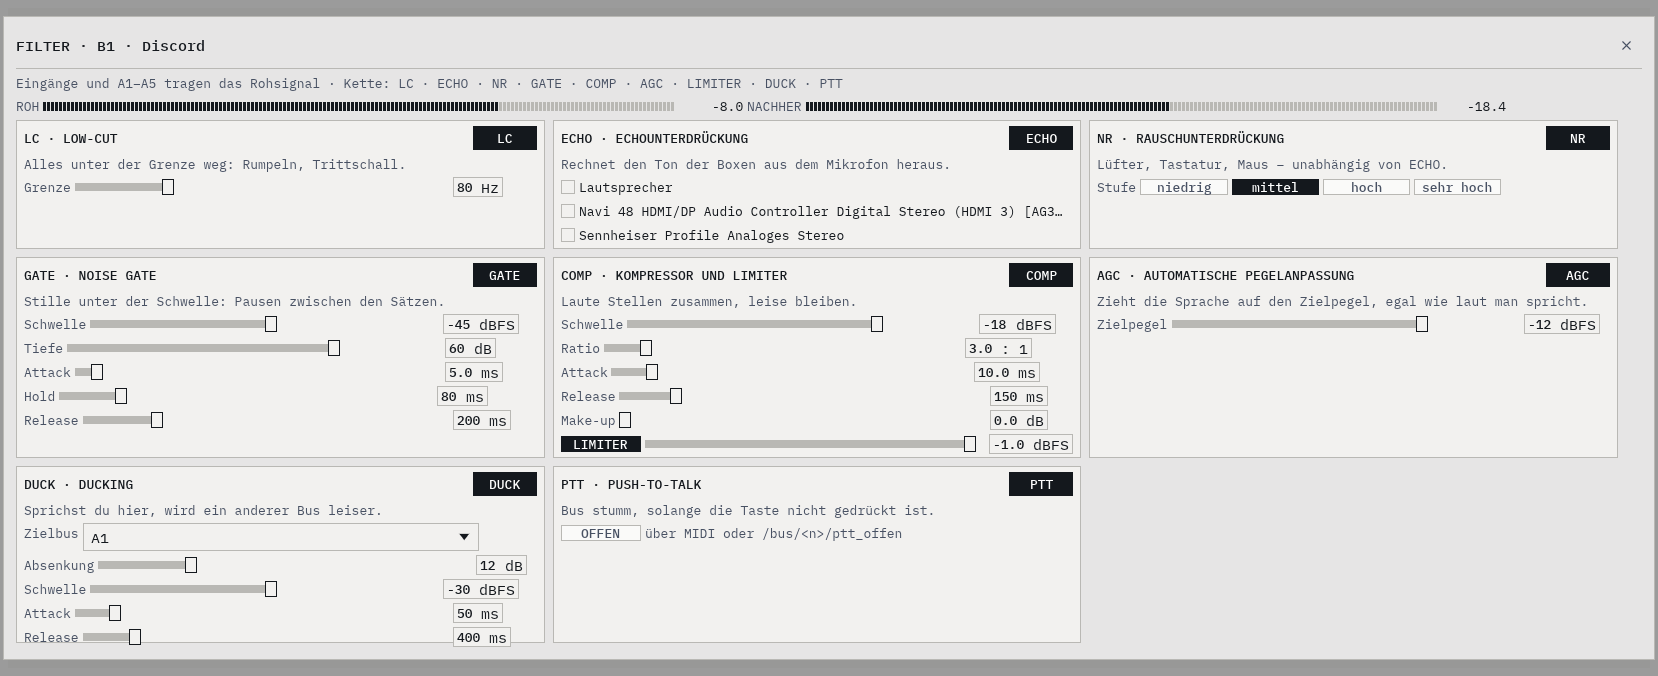
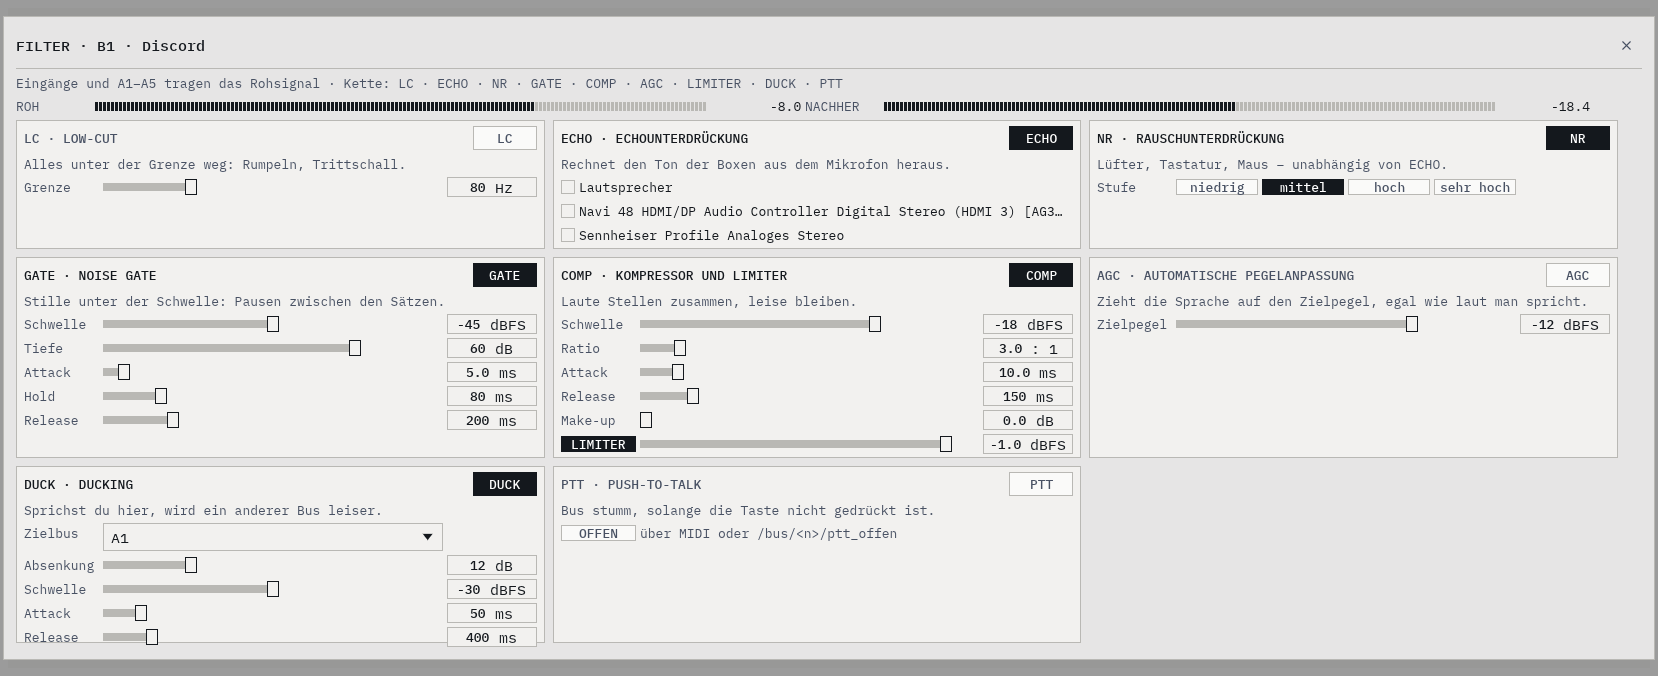
test(fenster): An und Aus am Filterschalter, Bilder zeigen beides
Der Schalter trug den Zustand schon: `bausteine::schalter` füllt bei „an“
die Akzentfläche und zeichnet bei „aus“ Grund mit Linie und gedämpfte
Schrift, `WidgetInfo::selected` trägt denselben Wert (in AccessKit
`toggled`). In den Bildern war davon nichts zu sehen, weil der Bilderbauer
jeden Filter einschaltete – alle neun Schalter waren Akzentfläche.

Das Beispielmodell hat nur ECHO und GATE an; der Bilderbauer schaltet
jetzt nur noch NR, COMP, DUCK und LIMITER dazu. Damit zeigen dark, light
und mono beide Zustände, und der Test hält den Stand fest.

Test: filter_schalter_melden_an_und_aus.
Bilder: filter-modal-{dark,light,mono}{,-min}.png neu erzeugt und geprüft.

diff --git a/crates/fenster/tests/oberflaeche.rs b/crates/fenster/tests/oberflaeche.rs
@@ -1017,3 +1017,33 @@ fn filter_karten_haben_buendige_spalten() {
         );
     }
 }
+
+/// An und Aus sind an jedem Filtersschalter ablesbar: im Beispiel sind nur
+/// ECHO und GATE an, also melden genau diese beiden `selected` und alle
+/// anderen nicht. (`WidgetInfo::selected` landet in AccessKit als `toggled`;
+/// gefüllt wird der Schalter nach demselben Wert.)
+#[test]
+fn filter_schalter_melden_an_und_aus() {
+    use crosspoint_fenster::modell::{Aktion, Aufklapp};
+    use egui::accesskit::Toggled;
+    use egui_kittest::kittest::NodeT;
+    let (mut f, _) = beispiel(Thema::Dunkel);
+    f.ausfuehren(Aktion::Aufklappen(Some(Aufklapp::Filter(5))));
+    let mut h = harness(f, (1920.0, 1080.0));
+    h.run_steps(6);
+    for name in [
+        "LC", "ECHO", "NR", "GATE", "COMP", "AGC", "DUCK", "PTT", "LIMITER",
+    ] {
+        let erwartet = if matches!(name, "ECHO" | "GATE") {
+            Toggled::True
+        } else {
+            Toggled::False
+        };
+        let knoten = h.get_by_label(name);
+        assert_eq!(
+            NodeT::accesskit_node(&knoten).toggled(),
+            Some(erwartet),
+            "{name}"
+        );
+    }
+}

diff --git a/docs/adr/0009-ein-dialograhmen-fuer-alle.md b/docs/adr/0009-ein-dialograhmen-fuer-alle.md
@@ -53,7 +53,11 @@ Rahmen:
   die Karte. Zeile und Zellen setzen dazu `set_min_size`/`set_min_width` – ohne
   das schrumpft `allocate_ui_with_layout` auf den Inhalt, und jede Karte bekäme
   ihre eigene Spalte.
-* Der An/Aus-Schalter sitzt oben rechts und ist in jeder Karte gleich groß.
+* Der An/Aus-Schalter sitzt oben rechts und ist in jeder Karte gleich groß. An
+  ist eine Akzentfläche, Aus ein Grund mit Linie und gedämpfter Schrift – wie
+  die übrigen Schalter im Pult. Denselben Stand trägt `WidgetInfo::selected`
+  (in AccessKit `toggled`), und die Kartenüberschrift ist bei „aus“ gedämpft.
+  Die Bilder in `docs/bilder` zeigen beides nebeneinander.
 
 ### 3. Die ECHO-Auswahl bietet nur lokale Ausgabegeräte
 
